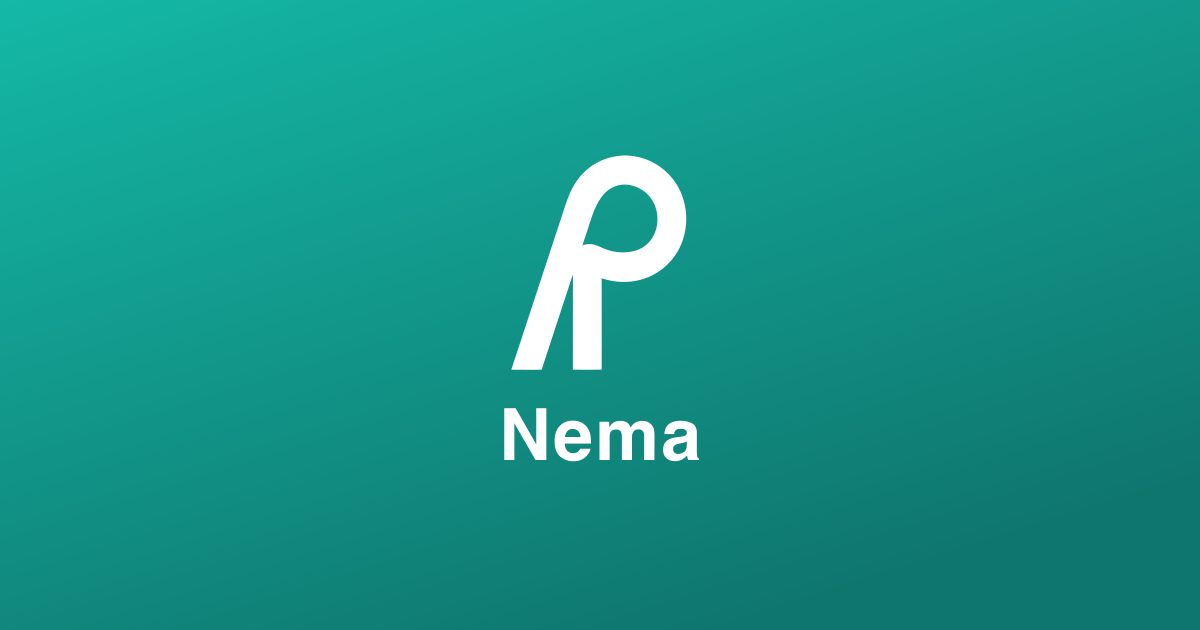
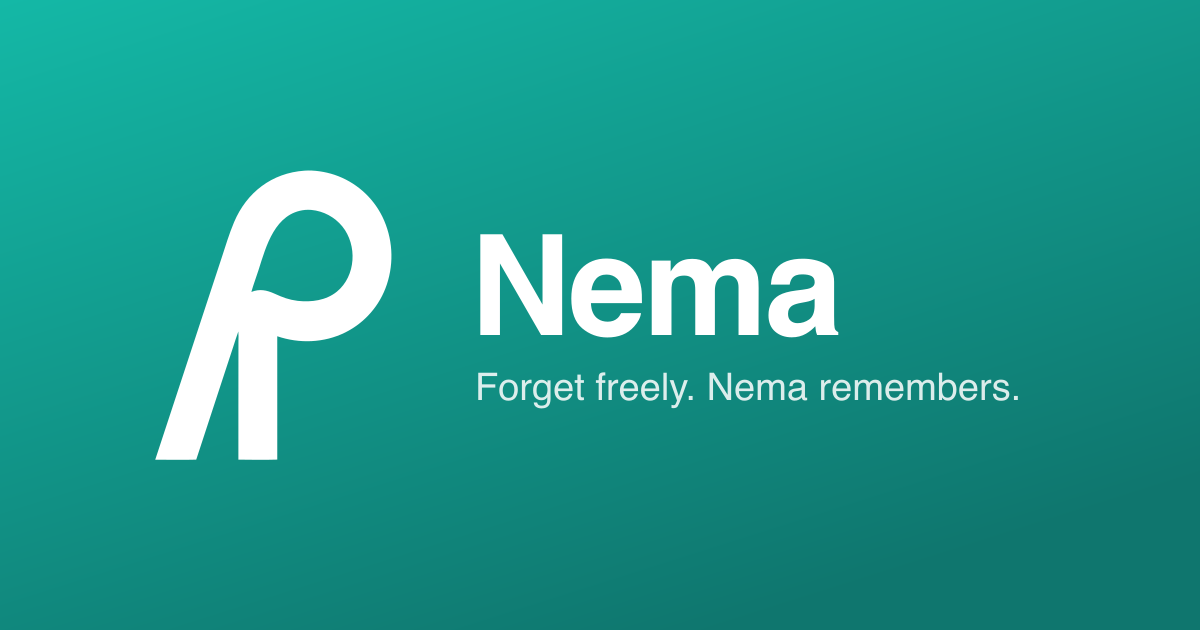
브랜드 에셋 전면 적용 및 터치포인트 통일 (#177)
* update(brand): apply logo assets across all touchpoints

Favicon: Dark+Teal with background + rx=48 (favicon.svg, favicon.ico)
PWA/iOS: Dark+Teal without radius (apple-touch-icon, icon-192, icon-512)
OG image: horizontal layout, tagline "Forget freely. Nema remembers", no domain
JSON-LD: logo field → logo.png (512×512 square, was og-image.png)
Sign-in: wordmark-only "Nema" (teal-500/fg-primary), remove tagline
Error pages: add NemaMarkIcon branding to NotFound + Page fallbacks
Design assets: logo-dark-teal.svg rx removed, logo-dark-teal.png regenerated
README: replace # heading with centered SVG wordmark

* add(i18n): catchphrase as greeting variant

"Forget freely / Nema remembers" added as 5th greeting rotation
on homepage. Auto-picked by existing VARIANT_COUNT logic.

---------

Changed region(s): [[0.4008, 0.2413, 0.8633, 0.754], [0.1233, 0.2714, 0.3392, 0.754]]

diff --git a/apps/web/src/app/pages/SignInPage.tsx b/apps/web/src/app/pages/SignInPage.tsx
@@ -4,7 +4,6 @@ import { useNavigate, useSearch } from "@tanstack/react-router";
 import { Button, Input, Separator } from "@nema-io/weave";
 import { LoaderCircle, Mail } from "@nema-io/weave/icons";
 
-import { NemaMarkIcon } from "@web/components/ui/NemaMarkIcon";
 import { GoogleIcon } from "@web/features/auth";
 import { useAuth } from "@web/hooks/useAuth";
 import { supabase } from "@web/lib/supabase";
@@ -79,16 +78,9 @@ export function SignInPage() {
   return (
     <div className="flex min-h-dvh items-center justify-center bg-surface p-4">
       <div className="flex w-full max-w-sm flex-col items-center gap-5">
-        <div className="flex flex-col items-center gap-3">
-          <NemaMarkIcon
-            width={48}
-            height={59}
-            className="fill-teal-700 dark:fill-teal-400"
-          />
-          <p className="text-lg font-semibold text-fg-primary">
-            {t("auth.tagline")}
-          </p>
-        </div>
+        <span className="text-[40px] font-bold leading-none tracking-tight text-teal-500 dark:text-fg-primary">
+          Nema
+        </span>
 
         <div className="flex min-h-[260px] w-full flex-col items-center justify-center rounded-xl border border-border p-6">
           {magicLinkSent ? (

diff --git a/apps/web/src/app/error/PageErrorFallback.tsx b/apps/web/src/app/error/PageErrorFallback.tsx
@@ -1,6 +1,7 @@
 import { Button } from "@nema-io/weave";
 import { RefreshCw, RotateCcw } from "@nema-io/weave/icons";
 
+import { NemaMarkIcon } from "@web/components/ui/NemaMarkIcon";
 import { useTranslation } from "@web/lib/tolgee";
 
 interface PageErrorFallbackProps {
@@ -13,6 +14,11 @@ export function PageErrorFallback({ error, onRetry }: PageErrorFallbackProps) {
 
   return (
     <div className="flex min-h-dvh flex-col items-center justify-center gap-3 p-8">
+      <NemaMarkIcon
+        width={32}
+        height={39}
+        className="mb-4 fill-teal-500 dark:fill-fg-primary"
+      />
       <p className="text-sm text-fg-tertiary">{t("error.page_error")}</p>
       {error?.message && (
         <p className="max-w-md text-center text-xs text-fg-tertiary/60">

diff --git a/apps/web/src/app/error/NotFoundErrorFallback.tsx b/apps/web/src/app/error/NotFoundErrorFallback.tsx
@@ -3,6 +3,7 @@ import { Link } from "@tanstack/react-router";
 import { Button } from "@nema-io/weave";
 import { Home } from "@nema-io/weave/icons";
 
+import { NemaMarkIcon } from "@web/components/ui/NemaMarkIcon";
 import { useTranslation } from "@web/lib/tolgee";
 
 export function NotFoundErrorFallback() {
@@ -10,6 +11,11 @@ export function NotFoundErrorFallback() {
 
   return (
     <div className="flex min-h-dvh flex-col items-center justify-center gap-3 p-8">
+      <NemaMarkIcon
+        width={32}
+        height={39}
+        className="mb-4 fill-teal-500 dark:fill-fg-primary"
+      />
       <p className="text-sm text-fg-tertiary">{t("error.not_found")}</p>
       <Button variant="ghost" size="sm" asChild>
         <Link to="/">

diff --git a/apps/web/index.html b/apps/web/index.html
@@ -18,7 +18,7 @@
         "@type": "SoftwareApplication",
         "name": "Nema",
         "url": "https://getnema.app",
-        "logo": "https://getnema.app/og-image.png",
+        "logo": "https://getnema.app/logo.png",
         "description": "Forget freely. Nema remembers",
         "applicationCategory": "ProductivityApplication",
         "operatingSystem": "Web"

diff --git a/README.md b/README.md
@@ -1,6 +1,8 @@
-# Nema
+<p align="center">
+  <img src="apps/web/src/assets/nema-logo.svg" alt="Nema" height="28" />
+</p>
 
-AI-powered context management web app.
+<p align="center">AI-powered context management web app.</p>
 
 ## Tech Stack
 
